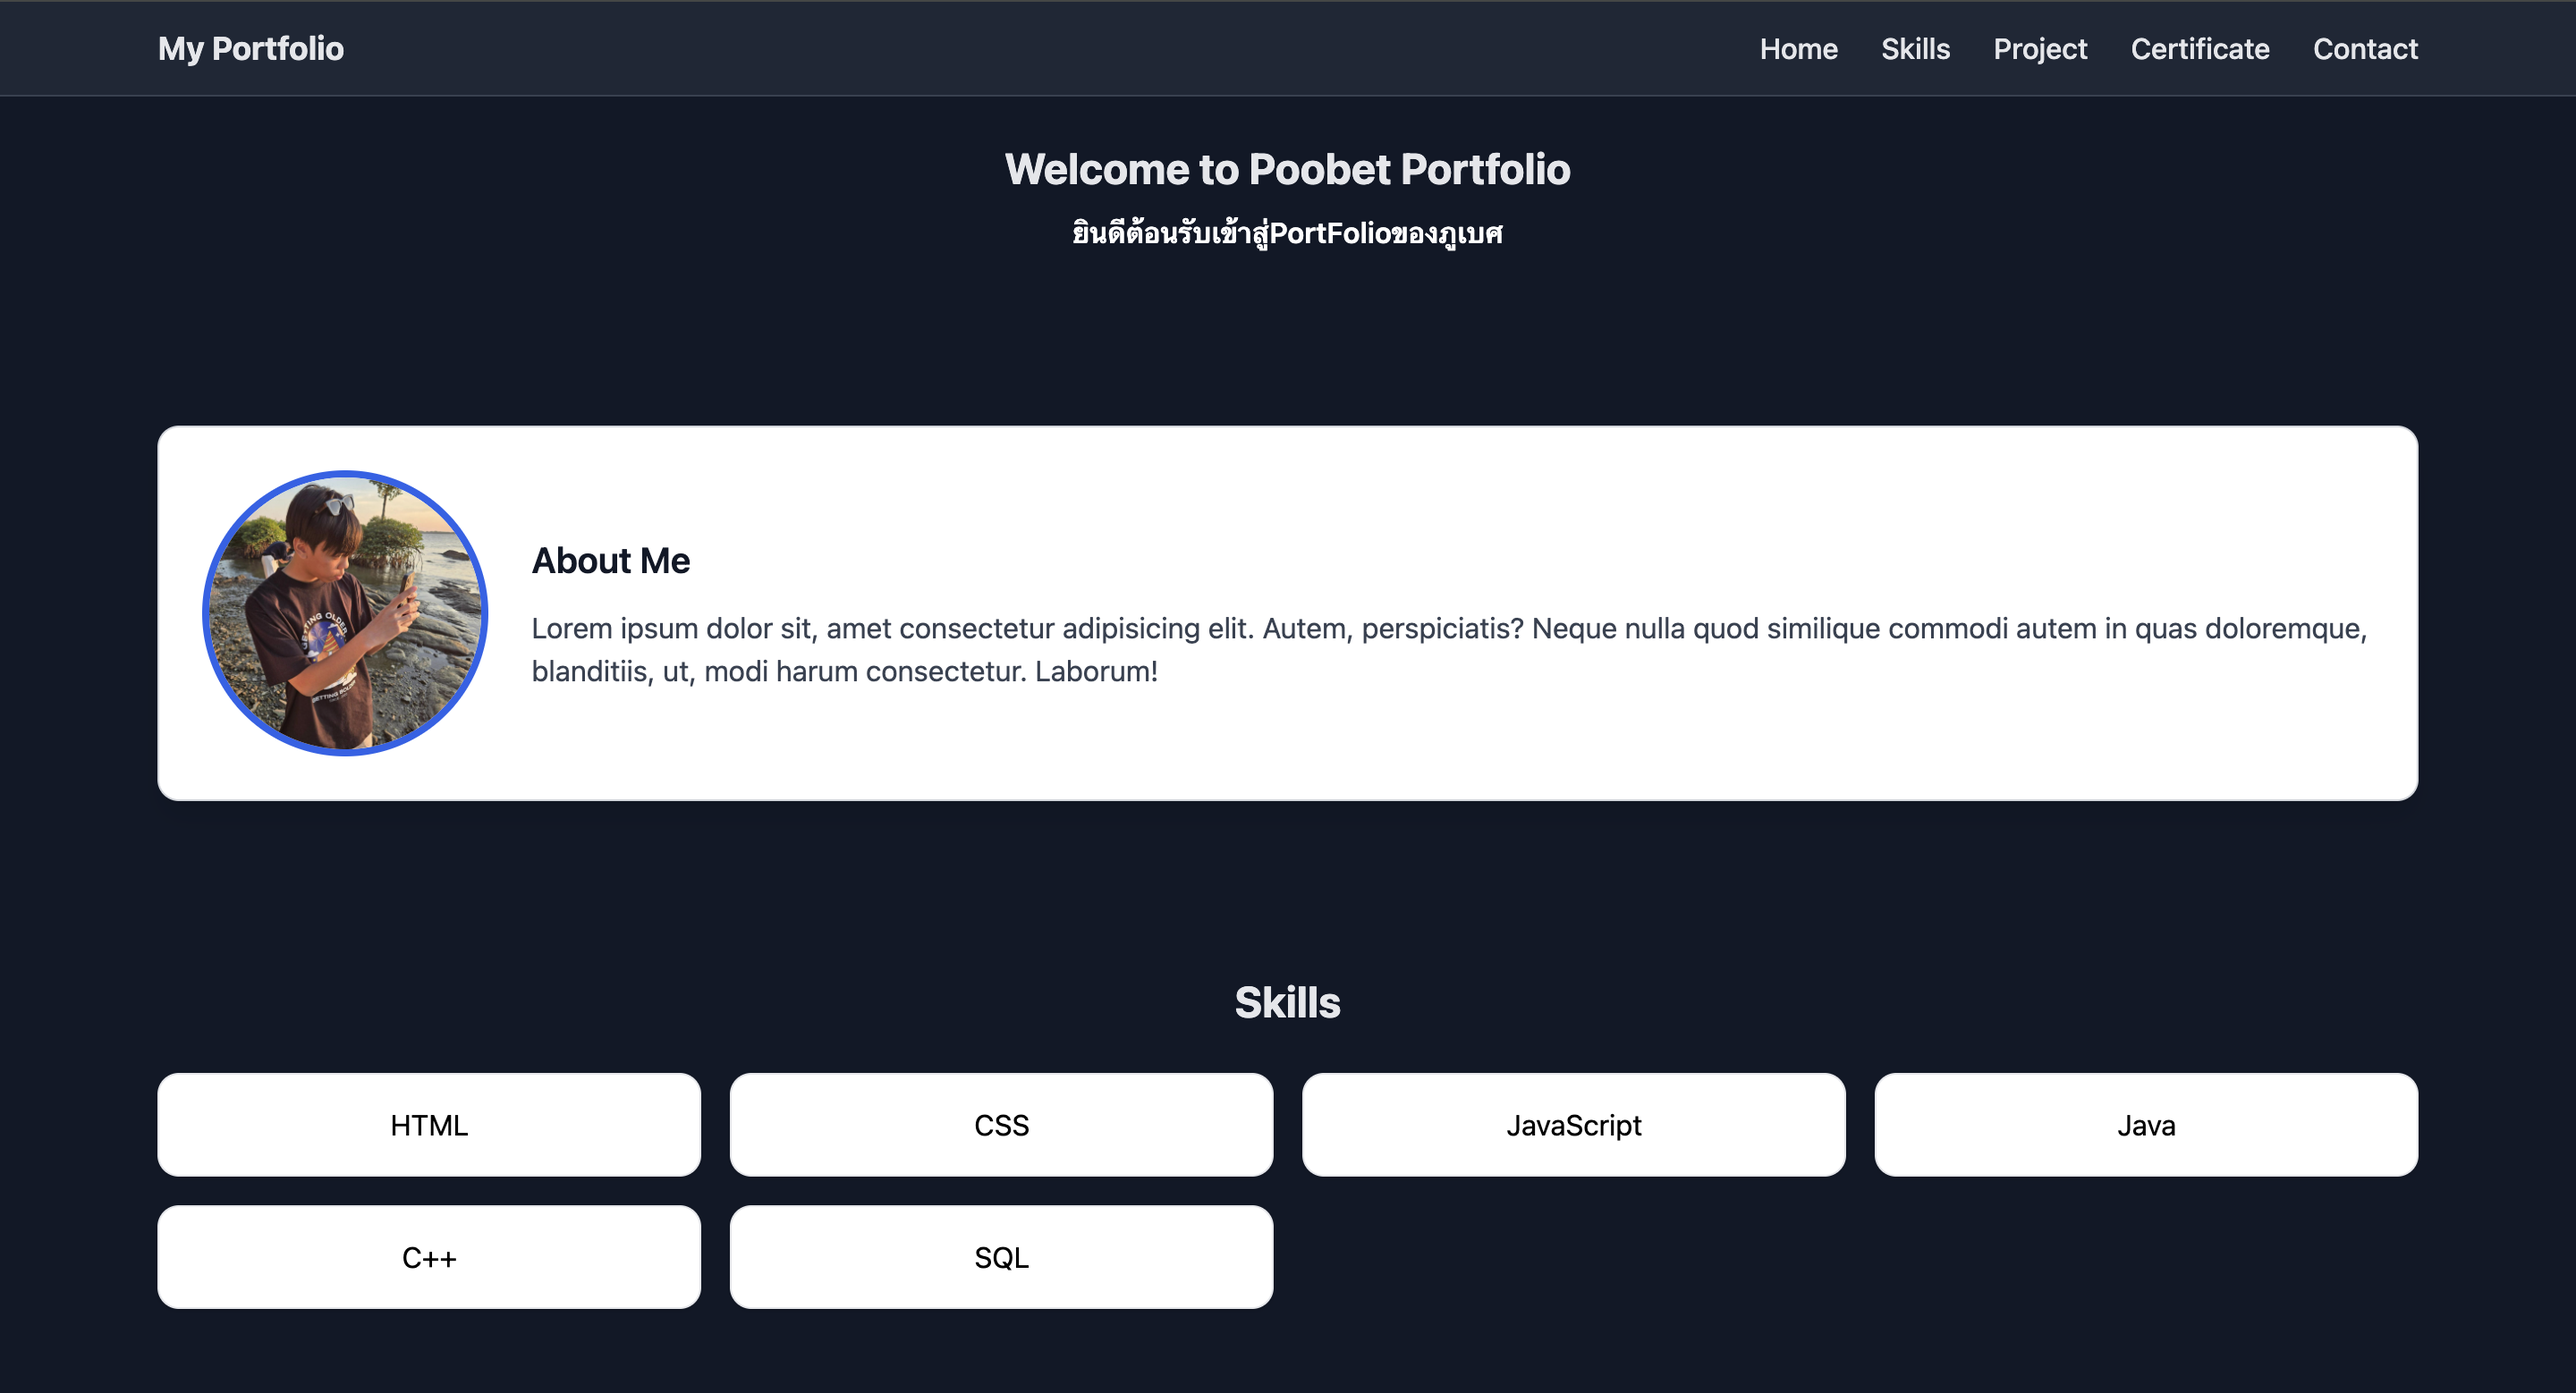
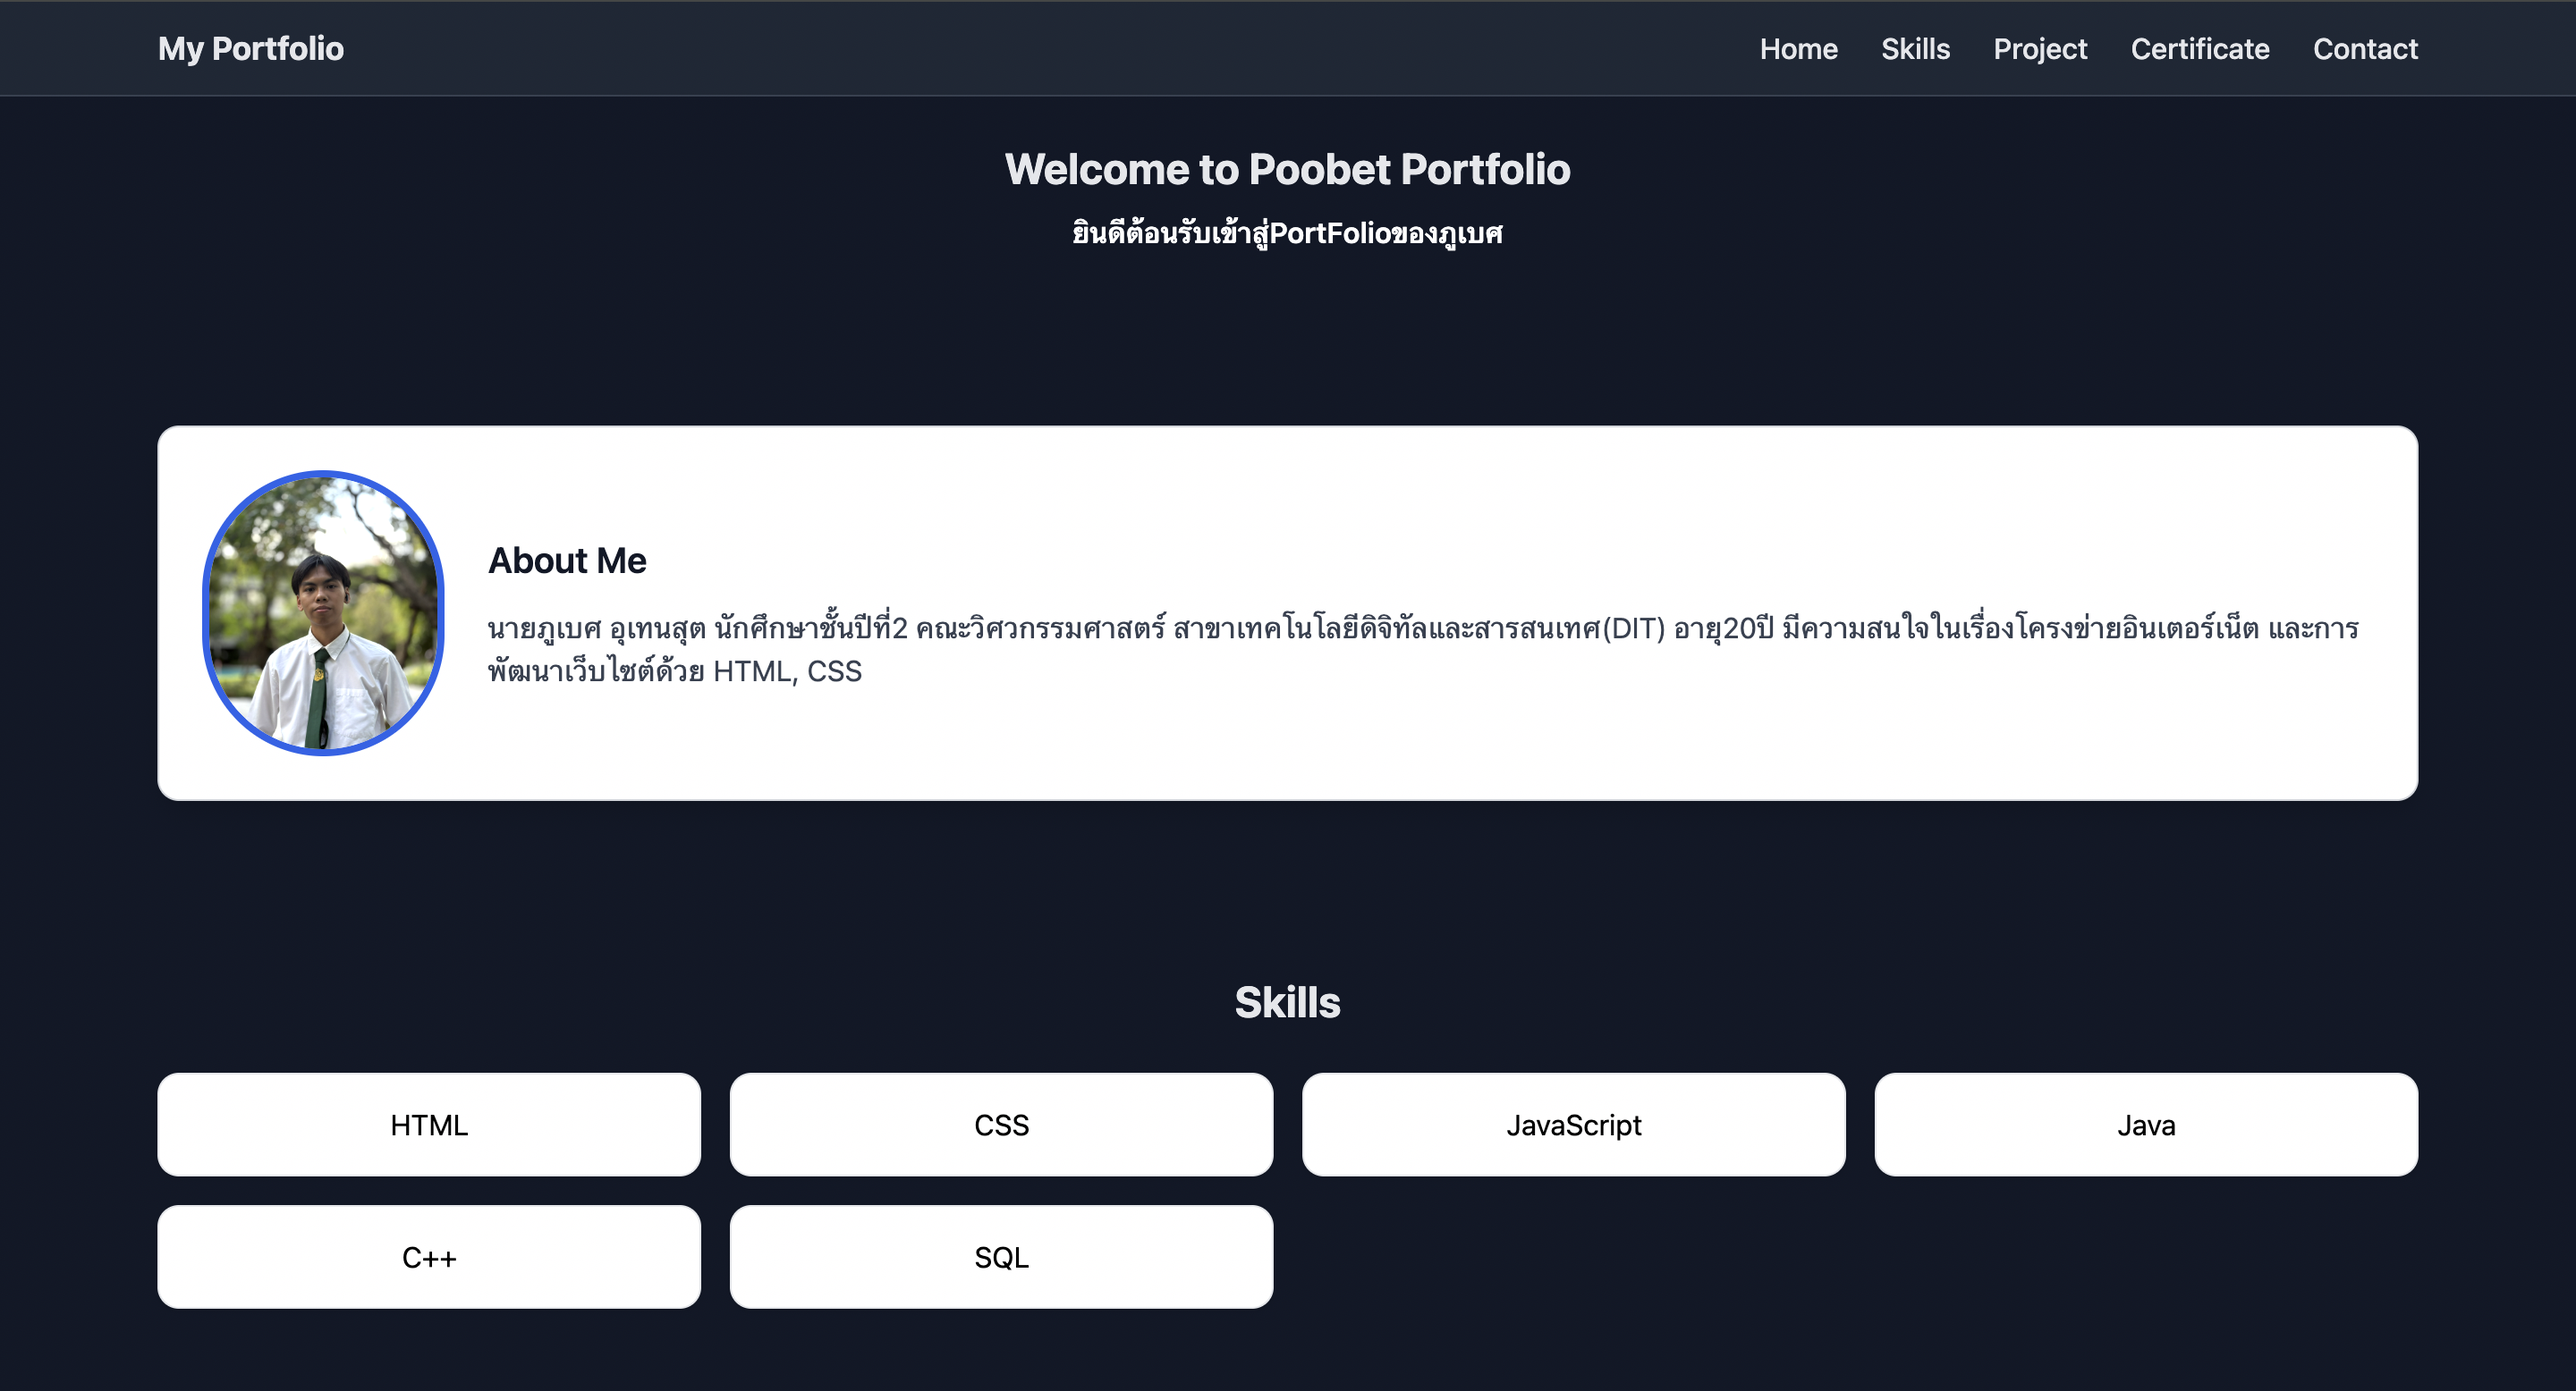
เปลี่ยนหน้าโปรไฟล์ เพิ่มการป้องกันการลากรูปและดาวน์โหลดรูป

diff --git a/index.html b/index.html
@@ -54,8 +54,9 @@
         <!-- HOME -->
         <section id="home"
             class="flex flex-col md:flex-row items-center gap-6 bg-white shadow-lg border border-gray-300 rounded-xl p-6">
-            <img src="./image/ProfileFacebook.jpg" alt="PoobetProfile"
-                class="w-32 h-32 md:w-40 md:h-40 rounded-full border-4 border-blue-600 object-cover">
+            <img src="./image/ProfilePort.JPG" alt="PoobetProfile"
+                class="w-32 h-32 md:w-40 md:h-40 rounded-full border-4 border-blue-600 object-cover"
+                oncontextmenu="return false" draggable="false">
             <div>
                 <h2 class="text-xl font-semibold text-gray-900">About Me</h2>
                 <p class="mt-3 text-gray-700">นายภูเบศ อุเทนสุต นักศึกษาชั้นปีที่2 คณะวิศวกรรมศาสตร์ สาขาเทคโนโลยีดิจิทัลและสารสนเทศ(DIT) อายุ20ปี
@@ -84,7 +85,8 @@
                 <!-- Project-1 -->
                 <article class="bg-white border border-gray-200 rounded-xl shadow p-4 ">
                     <div class="rounded-lg mb-3 overflow-hidden aspect-[16/9]">
-                        <img src="./image/project1.png" alt="Project1" class="object-top object-cover w-full h-auto">
+                        <img src="./image/project1.png" alt="Project1" class="object-top object-cover w-full h-auto"
+                            oncontextmenu="return false" draggable="false">
                     </div>
                     <h3 class="text-lg font-semibold text-black">My Portfolio</h3>
                     <p class="text-gray-600 text-sm mt-1 ">เว็บไซต์ Portfolio ที่สร้างโดย HTML, CSS, JavaScript.
@@ -93,7 +95,8 @@
                 <!-- Project-2 -->
                 <article class="bg-white border border-gray-200 rounded-xl shadow p-4">
                     <div class="rounded-lg mb-3 overflow-hidden aspect-[16/9]">
-                        <img src="./image/project2.png" alt="Project2" class="object-top object-cover w-full h-auto">
+                        <img src="./image/project2.png" alt="Project2" class="object-top object-cover w-full h-auto"
+                        oncontextmenu="return false" draggable="false">
                     </div>
                     <h3 class="text-lg font-semibold text-black">Argo Alert Box</h3>
                     <p class="text-gray-600 text-sm mt-1 ">เว็บไซต์ IOT สำหรับตรวจจับอุณภูมิ ความชื้น และก๊าซในโรงเรือน ที่สร้างโดย Arduino & ESP8266, HTML, CSS</p>
@@ -108,12 +111,14 @@
 
                 <article class="bg-white border border-gray-200 rounded-xl shadow-sm p-2 max-w-4xl mx-auto">
                     <img src="./image/CerHTML.png" alt="Cer1"
-                         class="rounded-lg w-full object-contain">
+                         class="rounded-lg w-full object-contain"
+                         oncontextmenu="return false" draggable="false">
                   </article>
 
                 <article class="bg-white border border-gray-200 rounded-xl shadow-sm p-2 max-w-4xl mx-auto">
                     <img src="./image/CerNetwork.png" alt="Cer2" 
-                        class="rounded-lg w-full object-contain">
+                        class="rounded-lg w-full object-contain"
+                        oncontextmenu="return false" draggable="false">
                 </article>
             </div>
         </section>
@@ -134,7 +139,7 @@
 
     <footer class="bg-gray-800 text-gray-300 py-6 mt-12">
         <div class="container mx-auto text-center text-sm">
-            &copy; Poobet Portfolio. All rights reserved.
+            &copy; Poobet | Portfolio. All rights reserved.
         </div>
     </footer>
 

diff --git a/style.css b/style.css
@@ -1,3 +1,10 @@
+body {
+    -webkit-user-select: none; /* Chrome/Safari */
+    -moz-user-select: none;    /* Firefox */
+    -ms-user-select: none;     /* IE/Edge */
+    user-select: none;         /* มาตรฐาน */
+  }
+
 .navbar a{
     position: relative;
     transition: color 0.2s;
